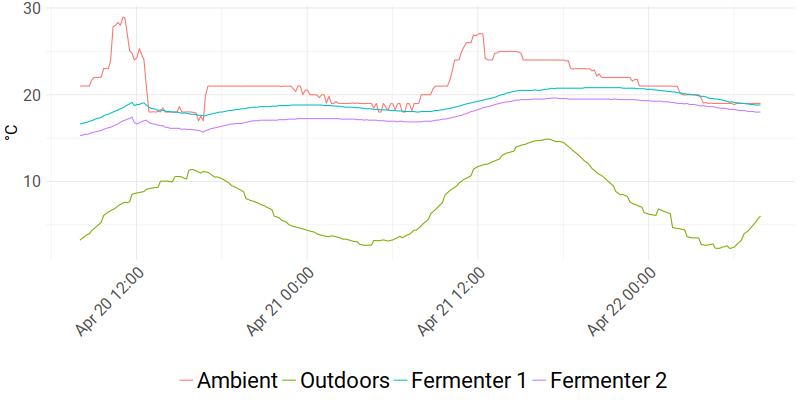
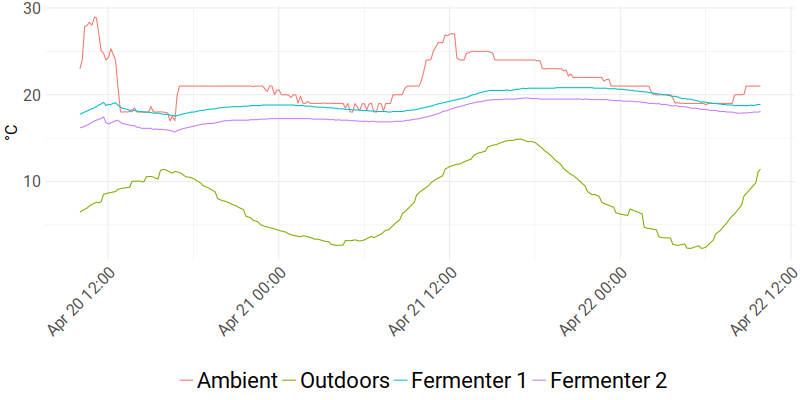
Update live temperature on site

diff --git a/temperature.js b/temperature.js
@@ -1,1 +1,1 @@
-document.write("<h4>Inside Temperature: 19.0°C</h4><h4>Outside Temperature: 6.02°C</h4><h4>Fermenter 1 Temperature: 18.81°C</h4><h4>Fermenter 2 Temperature: 18.0°C</h4><h4>Inside Humidity: 18.18%</h4><h4>Outside Humidity: 47.0%</h4><br>Last update: 2018-04-22 07:52:00");
+document.write("<h4>Inside Temperature: 21.0°C</h4><h4>Outside Temperature: 11.42°C</h4><h4>Fermenter 1 Temperature: 18.88°C</h4><h4>Fermenter 2 Temperature: 18.06°C</h4><h4>Inside Humidity: 17.29%</h4><h4>Outside Humidity: 30.0%</h4><br>Last update: 2018-04-22 09:51:09");
